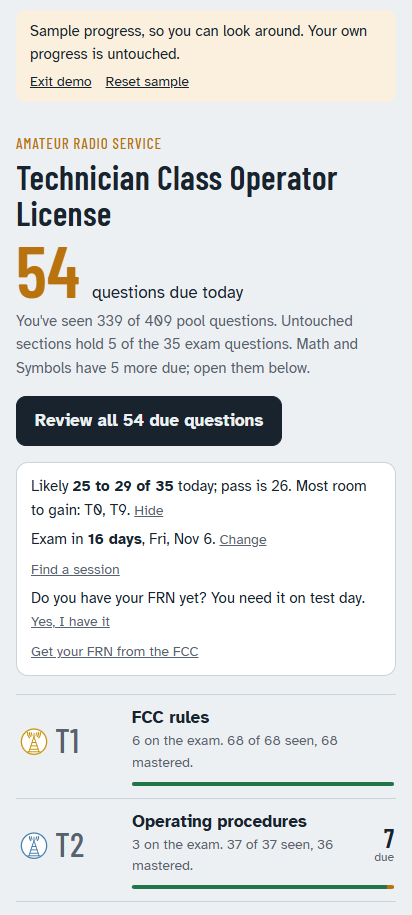
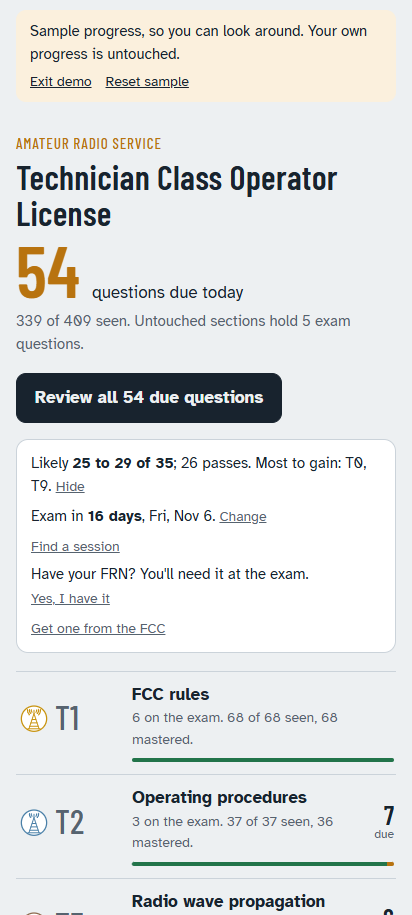
Shorter home-screen wording
Progress line, first-visit line, estimate, exam-date prompt, FRN question
and link, study hint and untouched rows each cut to what changes what
someone does next. The Math and Symbols due sentence is dropped; their
rows show their own counts. README home screenshot retaken.

Version 24.

diff --git a/index.html b/index.html
@@ -389,8 +389,7 @@ function home(){
   if(updateReady){location.reload();return}
   const app=$("app");demoBar(true);
   const reviews=DECKS.map(d=>[d,reviewsDue(d),stats(d)]);
-  const totalDue=reviews.reduce((a,[,n])=>a+n,0);
-  const poolDue=POOL.reduce((a,d)=>a+reviewsDue(d),0),otherDue=totalDue-poolDue;
+  const poolDue=POOL.reduce((a,d)=>a+reviewsDue(d),0);
   const poolSeen=POOL.reduce((a,d)=>a+stats(d).seen,0),poolTotal=POOL.reduce((a,d)=>a+stats(d).total,0);
   const untouched=POOL.filter(d=>stats(d).seen===0);
   const untouchedQs=untouched.reduce((a,d)=>a+d.exam,0);
@@ -399,20 +398,20 @@ function home(){
   let hinted=false;
   const row=([d,due,s])=>{
     const m=s.mastered/s.total*100,sn=(s.seen-s.mastered)/s.total*100;
-    const meta=d.exam?`${d.exam} on the exam. ${s.seen?`${s.seen} of ${s.total} seen, ${s.mastered} mastered.`:`${s.total} questions, not started.`}`
-      :`${s.seen?`${s.seen} of ${s.total} seen, ${s.mastered} mastered.`:`${s.total} ${d.S?"symbols":"questions"}, not started.`}`;
+    const meta=d.exam?`${s.seen?`${d.exam} on the exam. ${s.seen} of ${s.total} seen, ${s.mastered} mastered.`:`${d.exam} on the exam, ${s.total} questions. Not started.`}`
+      :`${s.seen?`${s.seen} of ${s.total} seen, ${s.mastered} mastered.`:`${s.total} ${d.S?"symbols":"questions"}. Not started.`}`;
     const earned=tierEarned(d);
     return `<li><button class="row${s.seen?"":" untouched"}${earned?" badged":""}" data-go="${d.id}">
       <span class="code${d.code.length>2?" long":""}">${deckBadge(d,32)}${d.code}${earned?`<span class="sr">, ${TIER[earned]} badge</span>`:""}</span><span class="nm">${esc(d.name)}</span>
       <span class="due${due?"":" zero"}">${due||""}<small>${due?"due":""}</small></span>
       <span class="meta">${meta}</span>
-      <span class="meter" aria-hidden="true"><i class="m" style="width:${m}%"></i><i class="s" style="width:${sn}%"></i></span></button>${!s.seen&&!hinted&&(d.P||d.S)&&(hinted=true)?`<span class="study-link">New to a section? <a href="#${d.id}/study">Read the ${d.code} basics first</a>; every section has a study page.</span>`:""}</li>`};
+      <span class="meter" aria-hidden="true"><i class="m" style="width:${m}%"></i><i class="s" style="width:${sn}%"></i></span></button>${!s.seen&&!hinted&&(d.P||d.S)&&(hinted=true)?`<span class="study-link">New to ${d.code}? <a href="#${d.id}/study">Read its basics first</a>.</span>`:""}</li>`};
   app.innerHTML=`
   <p class="over">Amateur Radio Service</p>
   <h1>Technician Class Operator License</h1>
   ${poolSeen?`<div class="today"><b>${poolDue}</b><span>${poolDue===1?"question":"questions"} due today</span></div>
-  <p class="reach">You've seen ${poolSeen} of ${poolTotal} pool questions.${untouched.length?` Untouched sections hold ${untouchedQs} of the 35 exam questions.`:""}${otherDue?` Math and Symbols have ${otherDue} more due; open them below.`:""}</p>`
-  :`<p class="reach">New here? The pool's ${poolTotal} questions come in ten sections, T1 to T0. Start with the first; after each answer you'll see why it's right.</p>`}
+  <p class="reach">${poolSeen} of ${poolTotal} seen.${untouched.length?` Untouched sections hold ${untouchedQs} exam questions.`:""}</p>`
+  :`<p class="reach">${poolTotal} questions in ten sections. Start with T1; each answer shows why.</p>`}
   ${poolDue?`<div class="actions"><button class="btn" data-go="due">${poolDue===1?"Review the 1 due question":`Review all ${poolDue} due questions`}</button></div>`
   :next?`<div class="actions"><button class="btn" data-go="${next.id}">${stats(next).seen?"Keep going with":"Start with"} ${next.code}: ${esc(next.name)}</button></div>`:""}
   ${planBlock()}
@@ -442,7 +441,7 @@ function home(){
 }
 function planBlock(){
   const e=estimate(),D=daysToExam(),pass=e.lo>=26;
-  const est=prefs.showEst?`<p class="${pass?"pass":e.hi<26?"short":""}">Likely <b>${e.lo===e.hi?e.lo:`${e.lo} to ${e.hi}`} of 35</b> today; pass is 26.${e.gain.length?` Most room to gain: ${e.gain.join(", ")}.`:""} <button class="linkbtn" id="hideEst">Hide</button></p>`
+  const est=prefs.showEst?`<p class="${pass?"pass":e.hi<26?"short":""}">Likely <b>${e.lo===e.hi?e.lo:`${e.lo} to ${e.hi}`} of 35</b>; 26 passes.${e.gain.length?` Most to gain: ${e.gain.join(", ")}.`:""} <button class="linkbtn" id="hideEst">Hide</button></p>`
     :`<p class="muted">Estimated score hidden. <button class="linkbtn" id="hideEst">Show</button></p>`;
   let date;
   if(editingDate||(EXAM.day==null&&prefs.showDate)){
@@ -455,11 +454,11 @@ function planBlock(){
     if(D!=null&&D>0&&prefs.showDate!==false){
       date+=`<p class="links"><a href="https://hamstudy.org/sessions" target="_blank" rel="noopener">Find a session</a></p>`;
       /* The FRN reminder stays until the person says they have one. */
-      if(!prefs.haveFRN)date+=`<p>Do you have your FRN yet? You need it on test day. <button class="linkbtn" id="haveFRN">Yes, I have it</button></p>
-      <p class="links"><a href="https://www.fcc.gov/wireless/support/universal-licensing-system-uls-resources/getting-fcc-registration-number-frn/" target="_blank" rel="noopener">Get your FRN from the FCC</a></p>`;
+      if(!prefs.haveFRN)date+=`<p>Have your FRN? You'll need it at the exam. <button class="linkbtn" id="haveFRN">Yes, I have it</button></p>
+      <p class="links"><a href="https://www.fcc.gov/wireless/support/universal-licensing-system-uls-resources/getting-fcc-registration-number-frn/" target="_blank" rel="noopener">Get one from the FCC</a></p>`;
     }
   }else{
-    date=`<p class="muted">Have a test date? <button class="linkbtn" id="setDate">Set it</button> and reviews will tighten toward it.</p>`;
+    date=`<p class="muted"><button class="linkbtn" id="setDate">Set your exam date</button> to time reviews to it.</p>`;
   }
   return `<div class="plan">${est}${date}</div>`;
 }

diff --git a/version.js b/version.js
@@ -1,2 +1,2 @@
 /* The one place the version lives. Raise it after changing any file; the footer and the service-worker cache key both read it. */
-const APP_VERSION="23";
+const APP_VERSION="24";

diff --git a/CHANGELOG.md b/CHANGELOG.md
@@ -2,6 +2,9 @@
 
 The version is `APP_VERSION` in version.js; it shows in the footer, and raising it is what makes installed copies update. All dates are 2026.
 
+## 24 (October 21)
+- Shorter home-screen wording: "339 of 409 seen", "26 passes. Most to gain", "Have your FRN?", "Set your exam date to time reviews to it", "New to T2? Read its basics first." The Math and Symbols due sentence is gone; their rows show their own counts.
+
 ## 23 (October 21)
 - The service worker clears only its own old caches. Every site on daseme.github.io shares one origin, and it was deleting every cache there.
 
